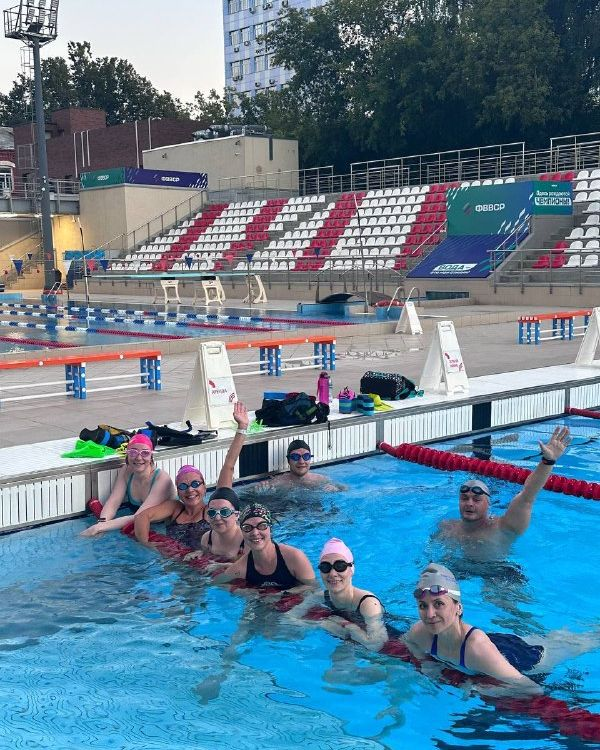
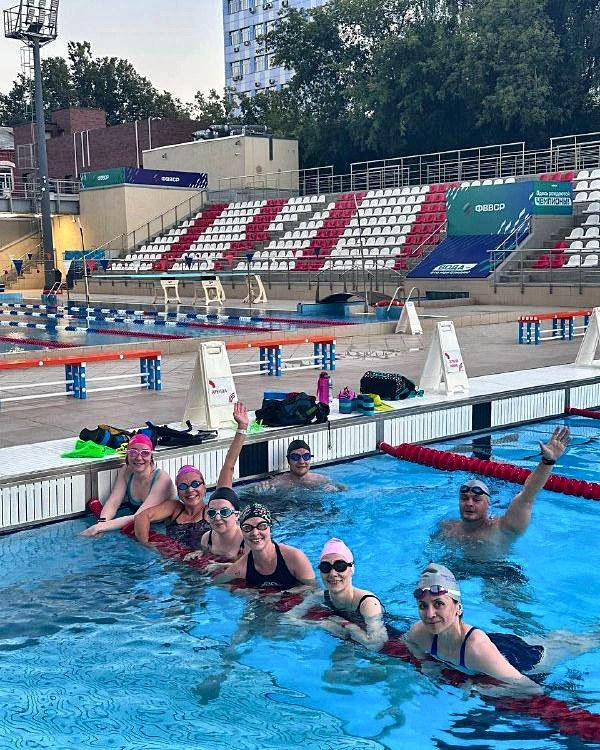
Фото клуба: чётче, лица с оригиналов; анкета без плашки; подвал по ширине

diff --git a/index.html b/index.html
@@ -20,7 +20,7 @@
   <meta name="twitter:card" content="summary_large_image">
   <link rel="preload" href="fonts/inter-cyrillic.woff2" as="font" type="font/woff2" crossorigin>
     <script>document.documentElement.classList.add('js')</script>
-  <link rel="stylesheet" href="css/style.css?v=1789488971">
+  <link rel="stylesheet" href="css/style.css?v=1789489227">
   <script type="application/ld+json">
   {"@context": "https://schema.org", "@graph": [{"@type": "Person", "@id": "https://akifevav0-droid.github.io/shabarshov/#person", "name": "Анатолий Шабаршов", "jobTitle": "Тренер по плаванию", "description": "Мастер спорта по плаванию, тренер для взрослых. Групповые и персональные тренировки в Москве, подготовка к открытой воде и триатлону.", "url": "https://akifevav0-droid.github.io/shabarshov/", "image": "https://akifevav0-droid.github.io/shabarshov/img/anatoliy_hero.jpg", "sameAs": ["https://profi.ru/profile/ShabarshovAS/", "https://www.instagram.com/shabarshov_/", "https://t.me/shabarshov", "https://t.me/shabarshov_club"], "address": {"@type": "PostalAddress", "addressLocality": "Москва", "addressCountry": "RU"}, "alumniOf": ["Училище олимпийского резерва", "РГУФК (РГУФКСМиТ)"], "award": ["Мастер спорта по плаванию", "Всемирные игры Masters, Абу-Даби 2026: 2-е и 3-е места"]}, {"@type": "SportsOrganization", "@id": "https://akifevav0-droid.github.io/shabarshov/#club", "name": "SHABARSHOV swimming club", "url": "https://akifevav0-droid.github.io/shabarshov/", "founder": {"@id": "https://akifevav0-droid.github.io/shabarshov/#person"}, "areaServed": "Москва", "sport": "Плавание", "makesOffer": [{"@type": "Offer", "price": "0", "priceCurrency": "RUB", "itemOffered": {"@type": "Service", "name": "Пробная тренировка по плаванию"}}, {"@type": "Offer", "price": "13600", "priceCurrency": "RUB", "itemOffered": {"@type": "Service", "name": "Абонемент на 8 групповых тренировок"}}, {"@type": "Offer", "price": "7500", "priceCurrency": "RUB", "itemOffered": {"@type": "Service", "name": "Абонемент на 4 групповые тренировки"}}, {"@type": "Offer", "price": "2000", "priceCurrency": "RUB", "itemOffered": {"@type": "Service", "name": "Разовая групповая тренировка"}}, {"@type": "Offer", "price": "3000", "priceCurrency": "RUB", "description": "от 3 000 ₽ + проход в бассейн", "itemOffered": {"@type": "Service", "name": "Персональная тренировка по плаванию"}}, {"@type": "Offer", "price": "3500", "priceCurrency": "RUB", "description": "за час", "itemOffered": {"@type": "Service", "name": "Тренировка на открытой воде"}}]}, {"@type": "SportsActivityLocation", "@id": "https://akifevav0-droid.github.io/shabarshov/#pool1", "name": "Бассейн СК МГТУ им. Баумана", "sport": "Плавание", "parentOrganization": {"@id": "https://akifevav0-droid.github.io/shabarshov/#club"}, "address": {"@type": "PostalAddress", "streetAddress": "Госпитальная наб., 4, стр. 1", "addressLocality": "Москва", "addressCountry": "RU"}, "openingHoursSpecification": [{"@type": "OpeningHoursSpecification", "dayOfWeek": ["Monday", "Thursday"], "opens": "19:45"}, {"@type": "OpeningHoursSpecification", "dayOfWeek": ["Monday", "Thursday"], "opens": "20:30"}], "description": "Группы: 19:45 средний и продвинутый уровень, 20:30 начинающий и средний, м. Электрозаводская"}, {"@type": "SportsActivityLocation", "@id": "https://akifevav0-droid.github.io/shabarshov/#pool2", "name": "Формула Воды", "sport": "Плавание", "parentOrganization": {"@id": "https://akifevav0-droid.github.io/shabarshov/#club"}, "address": {"@type": "PostalAddress", "streetAddress": "Мироновская ул., 27, стр. 2", "addressLocality": "Москва", "addressCountry": "RU"}, "openingHoursSpecification": [{"@type": "OpeningHoursSpecification", "dayOfWeek": ["Tuesday", "Friday"], "opens": "20:45"}], "description": "Группа начинающего и среднего уровня, м. Семёновская"}, {"@type": "SportsActivityLocation", "@id": "https://akifevav0-droid.github.io/shabarshov/#pool3", "name": "Акватория ЗИЛ", "sport": "Плавание", "parentOrganization": {"@id": "https://akifevav0-droid.github.io/shabarshov/#club"}, "address": {"@type": "PostalAddress", "streetAddress": "Автозаводская ул., 23А к4", "addressLocality": "Москва", "addressCountry": "RU"}, "openingHoursSpecification": [{"@type": "OpeningHoursSpecification", "dayOfWeek": ["Wednesday", "Friday"], "opens": "07:45"}], "description": "Мини-группа до 5 человек"}, {"@type": "SportsActivityLocation", "@id": "https://akifevav0-droid.github.io/shabarshov/#pool4", "name": "Лужники", "sport": "Плавание", "parentOrganization": {"@id": "https://akifevav0-droid.github.io/shabarshov/#club"}, "address": {"@type": "PostalAddress", "addressLocality": "Москва", "addressCountry": "RU"}, "description": "Персональные тренировки по договорённости, м. Спортивная"}, {"@type": "FAQPage", "mainEntity": [{"@type": "Question", "name": "Я не умею плавать. С чего начать?", "acceptedAnswer": {"@type": "Answer", "text": "С бесплатной пробной тренировки. За первое занятие вы подружитесь с водой и станете увереннее. Дальше подберём формат: группу по уровню или персональные занятия."}}, {"@type": "Question", "name": "Что взять на первую тренировку?", "acceptedAnswer": {"@type": "Answer", "text": "Справку для бассейна (как получить, расскажу при записи), купальник или плавки, шапочку, очки, сланцы, полотенце."}}, {"@type": "Question", "name": "Как проходит тренировка?", "acceptedAnswer": {"@type": "Answer", "text": "Час в воде: разминка, основное задание, заминка. Я в воде рядом и показываю упражнения сам."}}, {"@type": "Question", "name": "Что, если пропущу занятие?", "acceptedAnswer": {"@type": "Answer", "text": "Предупредите заранее, и найдём, как отработать. Пропуск без предупреждения не переносится."}}]}]}
   </script>

diff --git a/css/style.css b/css/style.css
@@ -1550,3 +1550,12 @@ main h2:not(.cap h2), .end__title { color: #4E4868 !important; font-weight: 500 
 #prices .pq__h { text-align: center; }
 @media (max-width: 734px) { #zapis .end__note { margin-bottom: 28px !important; } #sheet .sheet__sub { margin: 4px auto 18px !important; } }
 #zapis.hero--end { background: radial-gradient(34% 30% at 32% 58%, rgba(160, 138, 214, .26) 0%, rgba(160, 138, 214, 0) 70%), radial-gradient(30% 28% at 70% 66%, rgba(122, 170, 230, .18) 0%, transparent 70%), radial-gradient(40% 22% at 50% 22%, rgba(190, 176, 230, .16) 0%, transparent 70%), linear-gradient(180deg, #FFFFFF 0%, #F4F2F8 100%) !important; }
+
+/* Анкета внизу без плашки — прямо на сиянии (вариант Б) */
+#zapis .qz:not(.qz--sheet) { padding: 0 !important; background: none !important; box-shadow: none !important; backdrop-filter: none !important; -webkit-backdrop-filter: none !important; border-radius: 0 !important; }
+#zapis .qz label span { background: rgba(255,255,255,.7) !important; box-shadow: inset 0 0 0 1px rgba(110,103,136,.14), 0 6px 16px -12px rgba(76,68,110,.35) !important; }
+#zapis .qz input:checked + span { background: #fff !important; box-shadow: inset 0 0 0 1.5px #8F87AE, 0 10px 22px -12px rgba(76,68,110,.5) !important; }
+#zapis .qz .qz__preview { background: rgba(255,255,255,.75) !important; box-shadow: 0 16px 40px -28px rgba(76,68,110,.4), inset 0 0 0 1px rgba(255,255,255,.9) !important; }
+#zapis .qz .qz__acts { max-width: 460px; margin: 0 auto !important; }
+#zapis .qz .qz__acts .qz__wa, #zapis .qz .qz__acts .qz__call-btn { background: rgba(255,255,255,.7) !important; box-shadow: inset 0 0 0 1px rgba(110,103,136,.14) !important; }
+#zapis .foot { align-self: stretch !important; width: auto !important; margin-left: calc(-1 * clamp(20px, 3vw, 48px)) !important; margin-right: calc(-1 * clamp(20px, 3vw, 48px)) !important; }
